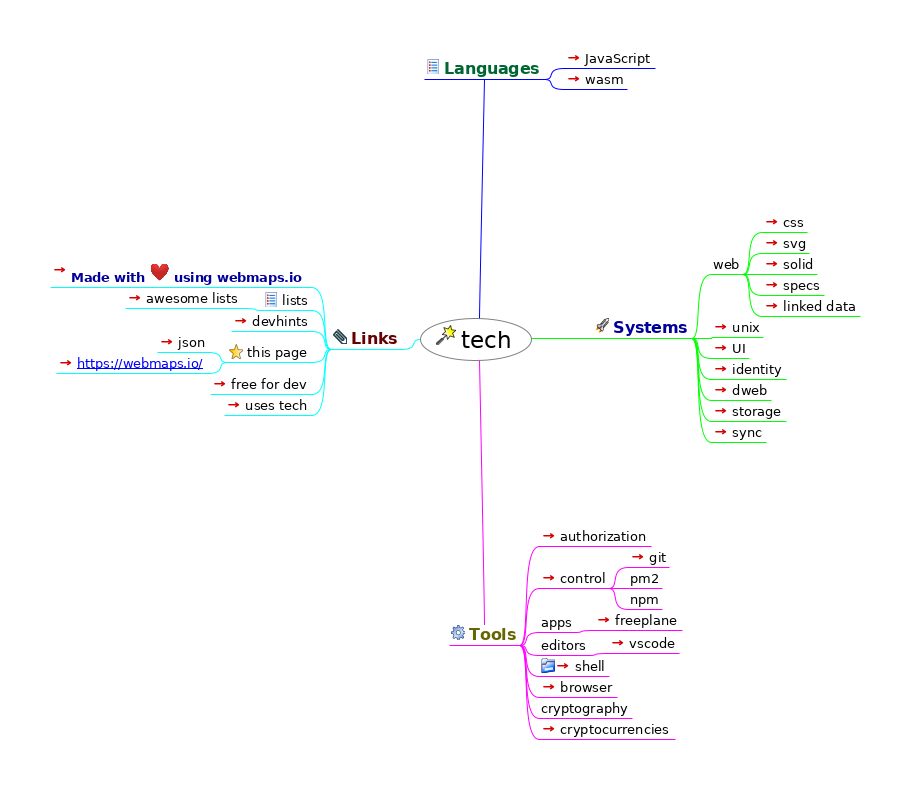
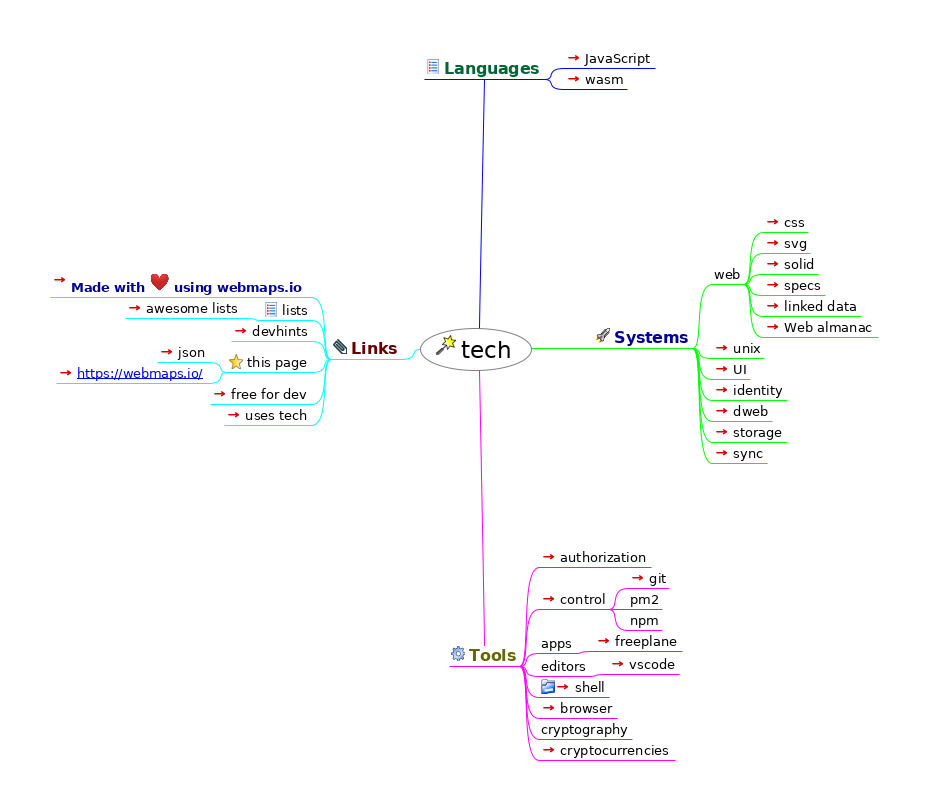
add web almanac

diff --git a/index.html b/index.html
@@ -23,52 +23,53 @@
                    };
                };
           
-          --></script></head><body><h1>tech</h1><div style="width:96%;  padding:2%;  margin-bottom:10px;  border: 0px;  text-align:center;  vertical-align:center;"><img src="index.html_files/image.png" style="margin-bottom:10px; &#9;border: 0px; &#9;text-align:center; &#9;vertical-align:center;" alt="Imagemap" usemap="#fm_imagemap" /></div><map name="fm_imagemap" id="fm_imagemap"><area shape="rect" href="#FMID_237352286FM" alt="tech" title="tech" coords="420,318,532,361" />
+          --></script></head><body><h1>tech</h1><div style="width:96%;  padding:2%;  margin-bottom:10px;  border: 0px;  text-align:center;  vertical-align:center;"><img src="index.html_files/image.png" style="margin-bottom:10px; &#9;border: 0px; &#9;text-align:center; &#9;vertical-align:center;" alt="Imagemap" usemap="#fm_imagemap" /></div><map name="fm_imagemap" id="fm_imagemap"><area shape="rect" href="#FMID_237352286FM" alt="tech" title="tech" coords="420,328,532,371" />
 <area shape="rect" href="#FMID_176155545FM" alt="Languages" title="Languages" coords="424,59,545,79" />
 <area shape="rect" href="../JavaScript/index.html" alt="JavaScript" title="JavaScript" coords="564,50,655,68" />
 <area shape="rect" href="languages/wasm/index.html" alt="wasm" title="wasm" coords="564,71,627,89" />
-<area shape="rect" href="#FMID_527312312FM" alt="Systems" title="Systems" coords="593,318,692,338" />
-<area shape="rect" href="#FMID_532002583FM" alt="web" title="web" coords="711,256,743,274" />
-<area shape="rect" href="css.html" alt="css" title="css" coords="762,214,807,232" />
-<area shape="rect" href="https://www.w3schools.com/graphics/svg_reference.asp" alt="svg" title="svg" coords="762,235,809,253" />
-<area shape="rect" href="../solid/index.html" alt="solid" title="solid" coords="762,256,817,274" />
-<area shape="rect" href="../specs/index.html" alt="specs" title="specs" coords="762,277,824,295" />
-<area shape="rect" href="../linkeddata/index.html" alt="linked data" title="linked data" coords="762,298,860,316" />
-<area shape="rect" href="unix/index.html" alt="unix" title="unix" coords="711,319,763,337" />
-<area shape="rect" href="UI/index.html" alt="UI" title="UI" coords="711,340,749,358" />
-<area shape="rect" href="identity/index.html" alt="identity" title="identity" coords="711,361,786,379" />
-<area shape="rect" href="dweb/index.html" alt="dweb" title="dweb" coords="711,382,771,400" />
-<area shape="rect" href="storage/index.html" alt="storage" title="storage" coords="711,403,786,421" />
-<area shape="rect" href="sync/index.html" alt="sync" title="sync" coords="711,424,766,442" />
-<area shape="rect" href="#FMID_1810859973FM" alt="Tools" title="Tools" coords="449,625,520,645" />
-<area shape="rect" href="authorization/index.html" alt="authorization" title="authorization" coords="539,528,651,546" />
-<area shape="rect" href="control/index.html" alt="control" title="control" coords="539,570,609,588" />
-<area shape="rect" href="control/git.html" alt="git" title="git" coords="628,549,669,567" />
-<area shape="rect" href="#FMID_901084502FM" alt="pm2" title="pm2" coords="628,570,662,588" />
-<area shape="rect" href="#FMID_677687213FM" alt="npm" title="npm" coords="628,591,662,609" />
-<area shape="rect" href="#FMID_453742222FM" alt="apps" title="apps" coords="539,614,575,632" />
-<area shape="rect" href="freeplane.html" alt="freeplane" title="freeplane" coords="594,612,682,630" />
-<area shape="rect" href="#FMID_1019017499FM" alt="editors" title="editors" coords="539,637,589,655" />
-<area shape="rect" href="https://code.visualstudio.com/" alt="vscode" title="vscode" coords="608,635,679,653" />
-<area shape="rect" href="shell/index.html" alt="shell" title="shell" coords="539,658,609,676" />
-<area shape="rect" href="browser/index.html" alt="browser" title="browser" coords="539,679,617,697" />
-<area shape="rect" href="#FMID_697718730FM" alt="cryptography" title="cryptography" coords="539,700,632,718" />
-<area shape="rect" href="cryptocurrencies/index.html" alt="cryptocurrencies" title="cryptocurrencies" coords="539,721,675,739" />
-<area shape="rect" href="#FMID_777477932FM" alt="Links" title="Links" coords="331,329,401,349" />
-<area shape="rect" href="https://webmaps.io/" alt="Made with  using webmaps.io" title="Made with  using webmaps.io" coords="50,262,312,287" />
-<area shape="rect" href="#FMID_21985093FM" alt="lists" title="lists" coords="262,292,312,310" />
-<area shape="rect" href="https://getawesomeness.herokuapp.com/get/js" alt="awesome lists" title="awesome lists" coords="125,290,243,308" />
-<area shape="rect" href="https://devhints.io/" alt="devhints" title="devhints" coords="231,313,312,331" />
-<area shape="rect" href="#FMID_117142409FM" alt="this page" title="this page" coords="227,344,312,362" />
-<area shape="rect" href="index.json" alt="json" title="json" coords="157,334,208,352" />
-<area shape="rect" href="https://webmaps.io/" alt="https://webmaps.io/" title="https://webmaps.io/" coords="56,355,208,373" />
-<area shape="rect" href="https://free-for.dev/#/" alt="free for dev" title="free for dev" coords="210,376,312,394" />
-<area shape="rect" href="https://uses.tech/" alt="uses tech" title="uses tech" coords="224,397,312,415" />
+<area shape="rect" href="#FMID_527312312FM" alt="Systems" title="Systems" coords="593,328,693,348" />
+<area shape="rect" href="#FMID_532002583FM" alt="web" title="web" coords="712,266,744,284" />
+<area shape="rect" href="css.html" alt="css" title="css" coords="763,214,808,232" />
+<area shape="rect" href="https://www.w3schools.com/graphics/svg_reference.asp" alt="svg" title="svg" coords="763,235,810,253" />
+<area shape="rect" href="../solid/index.html" alt="solid" title="solid" coords="763,256,818,274" />
+<area shape="rect" href="../specs/index.html" alt="specs" title="specs" coords="763,277,825,295" />
+<area shape="rect" href="../linkeddata/index.html" alt="linked data" title="linked data" coords="763,298,861,316" />
+<area shape="rect" href="https://almanac.httparchive.org/en/2019/table-of-contents" alt="Web almanac" title="Web almanac" coords="763,319,878,337" />
+<area shape="rect" href="unix/index.html" alt="unix" title="unix" coords="712,340,764,358" />
+<area shape="rect" href="UI/index.html" alt="UI" title="UI" coords="712,361,750,379" />
+<area shape="rect" href="identity/index.html" alt="identity" title="identity" coords="712,382,787,400" />
+<area shape="rect" href="dweb/index.html" alt="dweb" title="dweb" coords="712,403,772,421" />
+<area shape="rect" href="storage/index.html" alt="storage" title="storage" coords="712,424,787,442" />
+<area shape="rect" href="sync/index.html" alt="sync" title="sync" coords="712,445,767,463" />
+<area shape="rect" href="#FMID_1810859973FM" alt="Tools" title="Tools" coords="449,646,520,666" />
+<area shape="rect" href="authorization/index.html" alt="authorization" title="authorization" coords="539,549,651,567" />
+<area shape="rect" href="control/index.html" alt="control" title="control" coords="539,591,609,609" />
+<area shape="rect" href="control/git.html" alt="git" title="git" coords="628,570,669,588" />
+<area shape="rect" href="#FMID_901084502FM" alt="pm2" title="pm2" coords="628,591,662,609" />
+<area shape="rect" href="#FMID_677687213FM" alt="npm" title="npm" coords="628,612,662,630" />
+<area shape="rect" href="#FMID_453742222FM" alt="apps" title="apps" coords="539,635,575,653" />
+<area shape="rect" href="freeplane.html" alt="freeplane" title="freeplane" coords="594,633,682,651" />
+<area shape="rect" href="#FMID_1019017499FM" alt="editors" title="editors" coords="539,658,589,676" />
+<area shape="rect" href="https://code.visualstudio.com/" alt="vscode" title="vscode" coords="608,656,679,674" />
+<area shape="rect" href="shell/index.html" alt="shell" title="shell" coords="539,679,609,697" />
+<area shape="rect" href="browser/index.html" alt="browser" title="browser" coords="539,700,617,718" />
+<area shape="rect" href="#FMID_697718730FM" alt="cryptography" title="cryptography" coords="539,721,632,739" />
+<area shape="rect" href="cryptocurrencies/index.html" alt="cryptocurrencies" title="cryptocurrencies" coords="539,742,675,760" />
+<area shape="rect" href="#FMID_777477932FM" alt="Links" title="Links" coords="331,339,401,359" />
+<area shape="rect" href="https://webmaps.io/" alt="Made with  using webmaps.io" title="Made with  using webmaps.io" coords="50,272,312,297" />
+<area shape="rect" href="#FMID_21985093FM" alt="lists" title="lists" coords="262,302,312,320" />
+<area shape="rect" href="https://getawesomeness.herokuapp.com/get/js" alt="awesome lists" title="awesome lists" coords="125,300,243,318" />
+<area shape="rect" href="https://devhints.io/" alt="devhints" title="devhints" coords="231,323,312,341" />
+<area shape="rect" href="#FMID_117142409FM" alt="this page" title="this page" coords="227,354,312,372" />
+<area shape="rect" href="index.json" alt="json" title="json" coords="157,344,208,362" />
+<area shape="rect" href="https://webmaps.io/" alt="https://webmaps.io/" title="https://webmaps.io/" coords="56,365,208,383" />
+<area shape="rect" href="https://free-for.dev/#/" alt="free for dev" title="free for dev" coords="210,386,312,404" />
+<area shape="rect" href="https://uses.tech/" alt="uses tech" title="uses tech" coords="224,407,312,425" />
 </map>
 
-<div class="node"><img src="index.html_files/hide.png" class="hideshow" alt="hide" onClick="toggle(&quot;N65543&quot;)" id="imgN65543" /><img src="index.html_files/icons/wizard.svg" alt="wizard" /> <a id="FMID_237352286FM" /><div class="nodecontent" style="color:#000000;font-size:150%;">tech</div><div class="content" id="N65543"><div class="node"><img src="index.html_files/hide.png" class="hideshow" alt="hide" onClick="toggle(&quot;N66444&quot;)" id="imgN66444" /><img src="index.html_files/icons/list.svg" alt="list" /> <a id="FMID_176155545FM" /><div class="nodecontent" style="color:#006633;font-size:100%;font-weight:bold;">Languages</div><div class="content" id="N66444"><div class="node"><img src="index.html_files/leaf.png" class="hideshow" alt="leaf" /><a id="FMID_546595456FM" /><div class="nodecontent" style="color:#000000;font-size:83%;"><a href="../JavaScript/index.html">JavaScript</a> <a href="../JavaScript/index.html"><img src="index.html_files/ilink.png" alt="User Link" style="border-width:0" /></a></div></div><div class="node"><img src="index.html_files/leaf.png" class="hideshow" alt="leaf" /><a id="FMID_1992588014FM" /><div class="nodecontent" style="color:#000000;font-size:83%;"><a href="languages/wasm/index.html">wasm</a> <a href="languages/wasm/index.html"><img src="index.html_files/ilink.png" alt="User Link" style="border-width:0" /></a></div></div></div></div><div class="node"><img src="index.html_files/hide.png" class="hideshow" alt="hide" onClick="toggle(&quot;N66562&quot;)" id="imgN66562" /><img src="index.html_files/icons/launch.svg" alt="launch" /> <a id="FMID_527312312FM" /><div class="nodecontent" style="color:#000099;font-size:100%;font-weight:bold;">Systems</div><div class="content" id="N66562"><div class="node"><img src="index.html_files/hide.png" class="hideshow" alt="hide" onClick="toggle(&quot;N66605&quot;)" id="imgN66605" /><a id="FMID_532002583FM" /><div class="nodecontent" style="color:#000000;font-size:83%;">web</div><div class="content" id="N66605"><div class="node"><img src="index.html_files/leaf.png" class="hideshow" alt="leaf" /><a id="FMID_1846113849FM" /><div class="nodecontent" style="color:#000000;font-size:83%;"><a href="css.html">css</a> <a href="css.html"><img src="index.html_files/ilink.png" alt="User Link" style="border-width:0" /></a></div></div><div class="node"><img src="index.html_files/leaf.png" class="hideshow" alt="leaf" /><a id="FMID_428457042FM" /><div class="nodecontent" style="color:#000000;font-size:83%;"><a href="https://www.w3schools.com/graphics/svg_reference.asp">svg</a> <a href="https://www.w3schools.com/graphics/svg_reference.asp"><img src="index.html_files/ilink.png" alt="User Link" style="border-width:0" /></a></div></div><div class="node"><img src="index.html_files/leaf.png" class="hideshow" alt="leaf" /><a id="FMID_1070141955FM" /><div class="nodecontent" style="color:#000000;font-size:83%;"><a href="../solid/index.html">solid</a> <a href="../solid/index.html"><img src="index.html_files/ilink.png" alt="User Link" style="border-width:0" /></a></div></div><div class="node"><img src="index.html_files/leaf.png" class="hideshow" alt="leaf" /><a id="FMID_1682894723FM" /><div class="nodecontent" style="color:#000000;font-size:83%;"><a href="../specs/index.html">specs</a> <a href="../specs/index.html"><img src="index.html_files/ilink.png" alt="User Link" style="border-width:0" /></a></div></div><div class="node"><img src="index.html_files/leaf.png" class="hideshow" alt="leaf" /><a id="FMID_1972132930FM" /><div class="nodecontent" style="color:#000000;font-size:83%;"><a href="../linkeddata/index.html">linked data</a> <a href="../linkeddata/index.html"><img src="index.html_files/ilink.png" alt="User Link" style="border-width:0" /></a></div></div></div></div><div class="node"><img src="index.html_files/leaf.png" class="hideshow" alt="leaf" /><a id="FMID_7338816FM" /><div class="nodecontent" style="color:#000000;font-size:83%;"><a href="unix/index.html">unix</a> <a href="unix/index.html"><img src="index.html_files/ilink.png" alt="User Link" style="border-width:0" /></a></div></div><div class="node"><img src="index.html_files/leaf.png" class="hideshow" alt="leaf" /><a id="FMID_1601511624FM" /><div class="nodecontent" style="color:#000000;font-size:83%;"><a href="UI/index.html">UI</a> <a href="UI/index.html"><img src="index.html_files/ilink.png" alt="User Link" style="border-width:0" /></a></div></div><div class="node"><img src="index.html_files/leaf.png" class="hideshow" alt="leaf" /><a id="FMID_879802849FM" /><div class="nodecontent" style="color:#000000;font-size:83%;"><a href="identity/index.html">identity</a> <a href="identity/index.html"><img src="index.html_files/ilink.png" alt="User Link" style="border-width:0" /></a></div></div><div class="node"><img src="index.html_files/leaf.png" class="hideshow" alt="leaf" /><a id="FMID_1672732454FM" /><div class="nodecontent" style="color:#000000;font-size:83%;"><a href="dweb/index.html">dweb</a> <a href="dweb/index.html"><img src="index.html_files/ilink.png" alt="User Link" style="border-width:0" /></a></div></div><div class="node"><img src="index.html_files/leaf.png" class="hideshow" alt="leaf" /><a id="FMID_1360108173FM" /><div class="nodecontent" style="color:#000000;font-size:83%;"><a href="storage/index.html">storage</a> <a href="storage/index.html"><img src="index.html_files/ilink.png" alt="User Link" style="border-width:0" /></a></div></div><div class="node"><img src="index.html_files/leaf.png" class="hideshow" alt="leaf" /><a id="FMID_989569041FM" /><div class="nodecontent" style="color:#000000;font-size:83%;"><a href="sync/index.html">sync</a> <a href="sync/index.html"><img src="index.html_files/ilink.png" alt="User Link" style="border-width:0" /></a></div></div></div></div><div class="node"><img src="index.html_files/hide.png" class="hideshow" alt="hide" onClick="toggle(&quot;N67049&quot;)" id="imgN67049" /><img src="index.html_files/icons/executable.svg" alt="executable" /> <a id="FMID_1810859973FM" /><div class="nodecontent" style="color:#666600;font-size:100%;font-weight:bold;">Tools</div><div class="content" id="N67049"><div class="node"><img src="index.html_files/leaf.png" class="hideshow" alt="leaf" /><a id="FMID_1568925180FM" /><div class="nodecontent" style="color:#000000;font-size:83%;"><a href="authorization/index.html">authorization</a> <a href="authorization/index.html"><img src="index.html_files/ilink.png" alt="User Link" style="border-width:0" /></a></div></div><div class="node"><img src="index.html_files/hide.png" class="hideshow" alt="hide" onClick="toggle(&quot;N67129&quot;)" id="imgN67129" /><a id="FMID_1041005677FM" /><div class="nodecontent" style="color:#000000;font-size:83%;"><a href="control/index.html">control</a> <a href="control/index.html"><img src="index.html_files/ilink.png" alt="User Link" style="border-width:0" /></a></div><div class="content" id="N67129"><div class="node"><img src="index.html_files/leaf.png" class="hideshow" alt="leaf" /><a id="FMID_1536156446FM" /><div class="nodecontent" style="color:#000000;font-size:83%;"><a href="control/git.html">git</a> <a href="control/git.html"><img src="index.html_files/ilink.png" alt="User Link" style="border-width:0" /></a></div></div><div class="node"><img src="index.html_files/leaf.png" class="hideshow" alt="leaf" /><a id="FMID_901084502FM" /><div class="nodecontent" style="color:#000000;font-size:83%;">pm2</div></div><div class="node"><img src="index.html_files/leaf.png" class="hideshow" alt="leaf" /><a id="FMID_677687213FM" /><div class="nodecontent" style="color:#000000;font-size:83%;">npm</div></div></div></div><div class="node"><img src="index.html_files/hide.png" class="hideshow" alt="hide" onClick="toggle(&quot;N67275&quot;)" id="imgN67275" /><a id="FMID_453742222FM" /><div class="nodecontent" style="color:#000000;font-size:83%;">apps</div><div class="content" id="N67275"><div class="node"><img src="index.html_files/leaf.png" class="hideshow" alt="leaf" /><a id="FMID_756649779FM" /><div class="nodecontent" style="color:#000000;font-size:83%;"><a href="freeplane.html">freeplane</a> <a href="freeplane.html"><img src="index.html_files/ilink.png" alt="User Link" style="border-width:0" /></a></div></div></div></div><div class="node"><img src="index.html_files/hide.png" class="hideshow" alt="hide" onClick="toggle(&quot;N67348&quot;)" id="imgN67348" /><a id="FMID_1019017499FM" /><div class="nodecontent" style="color:#000000;font-size:83%;">editors</div><div class="content" id="N67348"><div class="node"><img src="index.html_files/leaf.png" class="hideshow" alt="leaf" /><a id="FMID_847676993FM" /><div class="nodecontent" style="color:#000000;font-size:83%;"><a href="https://code.visualstudio.com/">vscode</a> <a href="https://code.visualstudio.com/"><img src="index.html_files/ilink.png" alt="User Link" style="border-width:0" /></a></div></div></div></div><div class="node"><img src="index.html_files/leaf.png" class="hideshow" alt="leaf" /><img src="index.html_files/icons/folder.svg" alt="folder" /> <a id="FMID_1968717210FM" /><div class="nodecontent" style="color:#000000;font-size:83%;"><a href="shell/index.html">shell</a> <a href="shell/index.html"><img src="index.html_files/ilink.png" alt="User Link" style="border-width:0" /></a></div></div><div class="node"><img src="index.html_files/leaf.png" class="hideshow" alt="leaf" /><a id="FMID_220365950FM" /><div class="nodecontent" style="color:#000000;font-size:83%;"><a href="browser/index.html">browser</a> <a href="browser/index.html"><img src="index.html_files/ilink.png" alt="User Link" style="border-width:0" /></a></div></div><div class="node"><img src="index.html_files/leaf.png" class="hideshow" alt="leaf" /><a id="FMID_697718730FM" /><div class="nodecontent" style="color:#000000;font-size:83%;">cryptography</div></div><div class="node"><img src="index.html_files/leaf.png" class="hideshow" alt="leaf" /><a id="FMID_653198444FM" /><div class="nodecontent" style="color:#000000;font-size:83%;"><a href="cryptocurrencies/index.html">cryptocurrencies</a> <a href="cryptocurrencies/index.html"><img src="index.html_files/ilink.png" alt="User Link" style="border-width:0" /></a></div></div></div></div><div class="node"><img src="index.html_files/hide.png" class="hideshow" alt="hide" onClick="toggle(&quot;N67574&quot;)" id="imgN67574" /><img src="index.html_files/icons/attach.svg" alt="attach" /> <a id="FMID_777477932FM" /><div class="nodecontent" style="color:#660000;font-size:100%;font-weight:bold;">Links</div><div class="content" id="N67574"><div class="node"><img src="index.html_files/leaf.png" class="hideshow" alt="leaf" /><a id="FMID_1974475433FM" /><div class="nodecontent" style="color:#000099;font-size:83%;font-weight:bold;"><a href="https://webmaps.io/">
+<div class="node"><img src="index.html_files/hide.png" class="hideshow" alt="hide" onClick="toggle(&quot;N65543&quot;)" id="imgN65543" /><img src="index.html_files/icons/wizard.svg" alt="wizard" /> <a id="FMID_237352286FM" /><div class="nodecontent" style="color:#000000;font-size:150%;">tech</div><div class="content" id="N65543"><div class="node"><img src="index.html_files/hide.png" class="hideshow" alt="hide" onClick="toggle(&quot;N66444&quot;)" id="imgN66444" /><img src="index.html_files/icons/list.svg" alt="list" /> <a id="FMID_176155545FM" /><div class="nodecontent" style="color:#006633;font-size:100%;font-weight:bold;">Languages</div><div class="content" id="N66444"><div class="node"><img src="index.html_files/leaf.png" class="hideshow" alt="leaf" /><a id="FMID_546595456FM" /><div class="nodecontent" style="color:#000000;font-size:83%;"><a href="../JavaScript/index.html">JavaScript</a> <a href="../JavaScript/index.html"><img src="index.html_files/ilink.png" alt="User Link" style="border-width:0" /></a></div></div><div class="node"><img src="index.html_files/leaf.png" class="hideshow" alt="leaf" /><a id="FMID_1992588014FM" /><div class="nodecontent" style="color:#000000;font-size:83%;"><a href="languages/wasm/index.html">wasm</a> <a href="languages/wasm/index.html"><img src="index.html_files/ilink.png" alt="User Link" style="border-width:0" /></a></div></div></div></div><div class="node"><img src="index.html_files/hide.png" class="hideshow" alt="hide" onClick="toggle(&quot;N66562&quot;)" id="imgN66562" /><img src="index.html_files/icons/launch.svg" alt="launch" /> <a id="FMID_527312312FM" /><div class="nodecontent" style="color:#000099;font-size:100%;font-weight:bold;">Systems</div><div class="content" id="N66562"><div class="node"><img src="index.html_files/hide.png" class="hideshow" alt="hide" onClick="toggle(&quot;N66605&quot;)" id="imgN66605" /><a id="FMID_532002583FM" /><div class="nodecontent" style="color:#000000;font-size:83%;">web</div><div class="content" id="N66605"><div class="node"><img src="index.html_files/leaf.png" class="hideshow" alt="leaf" /><a id="FMID_1846113849FM" /><div class="nodecontent" style="color:#000000;font-size:83%;"><a href="css.html">css</a> <a href="css.html"><img src="index.html_files/ilink.png" alt="User Link" style="border-width:0" /></a></div></div><div class="node"><img src="index.html_files/leaf.png" class="hideshow" alt="leaf" /><a id="FMID_428457042FM" /><div class="nodecontent" style="color:#000000;font-size:83%;"><a href="https://www.w3schools.com/graphics/svg_reference.asp">svg</a> <a href="https://www.w3schools.com/graphics/svg_reference.asp"><img src="index.html_files/ilink.png" alt="User Link" style="border-width:0" /></a></div></div><div class="node"><img src="index.html_files/leaf.png" class="hideshow" alt="leaf" /><a id="FMID_1070141955FM" /><div class="nodecontent" style="color:#000000;font-size:83%;"><a href="../solid/index.html">solid</a> <a href="../solid/index.html"><img src="index.html_files/ilink.png" alt="User Link" style="border-width:0" /></a></div></div><div class="node"><img src="index.html_files/leaf.png" class="hideshow" alt="leaf" /><a id="FMID_1682894723FM" /><div class="nodecontent" style="color:#000000;font-size:83%;"><a href="../specs/index.html">specs</a> <a href="../specs/index.html"><img src="index.html_files/ilink.png" alt="User Link" style="border-width:0" /></a></div></div><div class="node"><img src="index.html_files/leaf.png" class="hideshow" alt="leaf" /><a id="FMID_1972132930FM" /><div class="nodecontent" style="color:#000000;font-size:83%;"><a href="../linkeddata/index.html">linked data</a> <a href="../linkeddata/index.html"><img src="index.html_files/ilink.png" alt="User Link" style="border-width:0" /></a></div></div><div class="node"><img src="index.html_files/leaf.png" class="hideshow" alt="leaf" /><a id="FMID_576483331FM" /><div class="nodecontent" style="color:#000000;font-size:83%;"><a href="https://almanac.httparchive.org/en/2019/table-of-contents">Web almanac</a> <a href="https://almanac.httparchive.org/en/2019/table-of-contents"><img src="index.html_files/ilink.png" alt="User Link" style="border-width:0" /></a></div></div></div></div><div class="node"><img src="index.html_files/leaf.png" class="hideshow" alt="leaf" /><a id="FMID_7338816FM" /><div class="nodecontent" style="color:#000000;font-size:83%;"><a href="unix/index.html">unix</a> <a href="unix/index.html"><img src="index.html_files/ilink.png" alt="User Link" style="border-width:0" /></a></div></div><div class="node"><img src="index.html_files/leaf.png" class="hideshow" alt="leaf" /><a id="FMID_1601511624FM" /><div class="nodecontent" style="color:#000000;font-size:83%;"><a href="UI/index.html">UI</a> <a href="UI/index.html"><img src="index.html_files/ilink.png" alt="User Link" style="border-width:0" /></a></div></div><div class="node"><img src="index.html_files/leaf.png" class="hideshow" alt="leaf" /><a id="FMID_879802849FM" /><div class="nodecontent" style="color:#000000;font-size:83%;"><a href="identity/index.html">identity</a> <a href="identity/index.html"><img src="index.html_files/ilink.png" alt="User Link" style="border-width:0" /></a></div></div><div class="node"><img src="index.html_files/leaf.png" class="hideshow" alt="leaf" /><a id="FMID_1672732454FM" /><div class="nodecontent" style="color:#000000;font-size:83%;"><a href="dweb/index.html">dweb</a> <a href="dweb/index.html"><img src="index.html_files/ilink.png" alt="User Link" style="border-width:0" /></a></div></div><div class="node"><img src="index.html_files/leaf.png" class="hideshow" alt="leaf" /><a id="FMID_1360108173FM" /><div class="nodecontent" style="color:#000000;font-size:83%;"><a href="storage/index.html">storage</a> <a href="storage/index.html"><img src="index.html_files/ilink.png" alt="User Link" style="border-width:0" /></a></div></div><div class="node"><img src="index.html_files/leaf.png" class="hideshow" alt="leaf" /><a id="FMID_989569041FM" /><div class="nodecontent" style="color:#000000;font-size:83%;"><a href="sync/index.html">sync</a> <a href="sync/index.html"><img src="index.html_files/ilink.png" alt="User Link" style="border-width:0" /></a></div></div></div></div><div class="node"><img src="index.html_files/hide.png" class="hideshow" alt="hide" onClick="toggle(&quot;N67086&quot;)" id="imgN67086" /><img src="index.html_files/icons/executable.svg" alt="executable" /> <a id="FMID_1810859973FM" /><div class="nodecontent" style="color:#666600;font-size:100%;font-weight:bold;">Tools</div><div class="content" id="N67086"><div class="node"><img src="index.html_files/leaf.png" class="hideshow" alt="leaf" /><a id="FMID_1568925180FM" /><div class="nodecontent" style="color:#000000;font-size:83%;"><a href="authorization/index.html">authorization</a> <a href="authorization/index.html"><img src="index.html_files/ilink.png" alt="User Link" style="border-width:0" /></a></div></div><div class="node"><img src="index.html_files/hide.png" class="hideshow" alt="hide" onClick="toggle(&quot;N67166&quot;)" id="imgN67166" /><a id="FMID_1041005677FM" /><div class="nodecontent" style="color:#000000;font-size:83%;"><a href="control/index.html">control</a> <a href="control/index.html"><img src="index.html_files/ilink.png" alt="User Link" style="border-width:0" /></a></div><div class="content" id="N67166"><div class="node"><img src="index.html_files/leaf.png" class="hideshow" alt="leaf" /><a id="FMID_1536156446FM" /><div class="nodecontent" style="color:#000000;font-size:83%;"><a href="control/git.html">git</a> <a href="control/git.html"><img src="index.html_files/ilink.png" alt="User Link" style="border-width:0" /></a></div></div><div class="node"><img src="index.html_files/leaf.png" class="hideshow" alt="leaf" /><a id="FMID_901084502FM" /><div class="nodecontent" style="color:#000000;font-size:83%;">pm2</div></div><div class="node"><img src="index.html_files/leaf.png" class="hideshow" alt="leaf" /><a id="FMID_677687213FM" /><div class="nodecontent" style="color:#000000;font-size:83%;">npm</div></div></div></div><div class="node"><img src="index.html_files/hide.png" class="hideshow" alt="hide" onClick="toggle(&quot;N67312&quot;)" id="imgN67312" /><a id="FMID_453742222FM" /><div class="nodecontent" style="color:#000000;font-size:83%;">apps</div><div class="content" id="N67312"><div class="node"><img src="index.html_files/leaf.png" class="hideshow" alt="leaf" /><a id="FMID_756649779FM" /><div class="nodecontent" style="color:#000000;font-size:83%;"><a href="freeplane.html">freeplane</a> <a href="freeplane.html"><img src="index.html_files/ilink.png" alt="User Link" style="border-width:0" /></a></div></div></div></div><div class="node"><img src="index.html_files/hide.png" class="hideshow" alt="hide" onClick="toggle(&quot;N67385&quot;)" id="imgN67385" /><a id="FMID_1019017499FM" /><div class="nodecontent" style="color:#000000;font-size:83%;">editors</div><div class="content" id="N67385"><div class="node"><img src="index.html_files/leaf.png" class="hideshow" alt="leaf" /><a id="FMID_847676993FM" /><div class="nodecontent" style="color:#000000;font-size:83%;"><a href="https://code.visualstudio.com/">vscode</a> <a href="https://code.visualstudio.com/"><img src="index.html_files/ilink.png" alt="User Link" style="border-width:0" /></a></div></div></div></div><div class="node"><img src="index.html_files/leaf.png" class="hideshow" alt="leaf" /><img src="index.html_files/icons/folder.svg" alt="folder" /> <a id="FMID_1968717210FM" /><div class="nodecontent" style="color:#000000;font-size:83%;"><a href="shell/index.html">shell</a> <a href="shell/index.html"><img src="index.html_files/ilink.png" alt="User Link" style="border-width:0" /></a></div></div><div class="node"><img src="index.html_files/leaf.png" class="hideshow" alt="leaf" /><a id="FMID_220365950FM" /><div class="nodecontent" style="color:#000000;font-size:83%;"><a href="browser/index.html">browser</a> <a href="browser/index.html"><img src="index.html_files/ilink.png" alt="User Link" style="border-width:0" /></a></div></div><div class="node"><img src="index.html_files/leaf.png" class="hideshow" alt="leaf" /><a id="FMID_697718730FM" /><div class="nodecontent" style="color:#000000;font-size:83%;">cryptography</div></div><div class="node"><img src="index.html_files/leaf.png" class="hideshow" alt="leaf" /><a id="FMID_653198444FM" /><div class="nodecontent" style="color:#000000;font-size:83%;"><a href="cryptocurrencies/index.html">cryptocurrencies</a> <a href="cryptocurrencies/index.html"><img src="index.html_files/ilink.png" alt="User Link" style="border-width:0" /></a></div></div></div></div><div class="node"><img src="index.html_files/hide.png" class="hideshow" alt="hide" onClick="toggle(&quot;N67611&quot;)" id="imgN67611" /><img src="index.html_files/icons/attach.svg" alt="attach" /> <a id="FMID_777477932FM" /><div class="nodecontent" style="color:#660000;font-size:100%;font-weight:bold;">Links</div><div class="content" id="N67611"><div class="node"><img src="index.html_files/leaf.png" class="hideshow" alt="leaf" /><a id="FMID_1974475433FM" /><div class="nodecontent" style="color:#000099;font-size:83%;font-weight:bold;"><a href="https://webmaps.io/">
     Made with <img class="emoji" alt="heart" height="20" width="20" src="https://github.githubassets.com/images/icons/emoji/unicode/2764.png" style="border-top-style: none; border-right-style: none; border-bottom-style: none; border-left-style: none" /> using webmaps.io
-  </a> <a href="https://webmaps.io/"><img src="index.html_files/ilink.png" alt="User Link" style="border-width:0" /></a></div></div><div class="node"><img src="index.html_files/hide.png" class="hideshow" alt="hide" onClick="toggle(&quot;N67672&quot;)" id="imgN67672" /><img src="index.html_files/icons/list.svg" alt="list" /> <a id="FMID_21985093FM" /><div class="nodecontent" style="color:#000000;font-size:83%;">lists</div><div class="content" id="N67672"><div class="node"><img src="index.html_files/leaf.png" class="hideshow" alt="leaf" /><a id="FMID_588856980FM" /><div class="nodecontent" style="color:#000000;font-size:83%;"><a href="https://getawesomeness.herokuapp.com/get/js">awesome lists</a> <a href="https://getawesomeness.herokuapp.com/get/js"><img src="index.html_files/ilink.png" alt="User Link" style="border-width:0" /></a></div></div></div></div><div class="node"><img src="index.html_files/leaf.png" class="hideshow" alt="leaf" /><a id="FMID_1033702527FM" /><div class="nodecontent" style="color:#000000;font-size:83%;"><a href="https://devhints.io/">devhints</a> <a href="https://devhints.io/"><img src="index.html_files/ilink.png" alt="User Link" style="border-width:0" /></a></div></div><div class="node"><img src="index.html_files/hide.png" class="hideshow" alt="hide" onClick="toggle(&quot;N67787&quot;)" id="imgN67787" /><img src="index.html_files/icons/bookmark.svg" alt="bookmark" /> <a id="FMID_117142409FM" /><div class="nodecontent" style="color:#000000;font-size:83%;">this page</div><div class="content" id="N67787"><div class="node"><img src="index.html_files/leaf.png" class="hideshow" alt="leaf" /><a id="FMID_485260235FM" /><div class="nodecontent" style="color:#000000;font-size:83%;"><a href="index.json">json</a> <a href="index.json"><img src="index.html_files/ilink.png" alt="User Link" style="border-width:0" /></a></div></div><div class="node"><img src="index.html_files/leaf.png" class="hideshow" alt="leaf" /><a id="FMID_1630439828FM" /><div class="nodecontent" style="color:#000000;font-size:83%;"><a href="https://webmaps.io/">
+  </a> <a href="https://webmaps.io/"><img src="index.html_files/ilink.png" alt="User Link" style="border-width:0" /></a></div></div><div class="node"><img src="index.html_files/hide.png" class="hideshow" alt="hide" onClick="toggle(&quot;N67709&quot;)" id="imgN67709" /><img src="index.html_files/icons/list.svg" alt="list" /> <a id="FMID_21985093FM" /><div class="nodecontent" style="color:#000000;font-size:83%;">lists</div><div class="content" id="N67709"><div class="node"><img src="index.html_files/leaf.png" class="hideshow" alt="leaf" /><a id="FMID_588856980FM" /><div class="nodecontent" style="color:#000000;font-size:83%;"><a href="https://getawesomeness.herokuapp.com/get/js">awesome lists</a> <a href="https://getawesomeness.herokuapp.com/get/js"><img src="index.html_files/ilink.png" alt="User Link" style="border-width:0" /></a></div></div></div></div><div class="node"><img src="index.html_files/leaf.png" class="hideshow" alt="leaf" /><a id="FMID_1033702527FM" /><div class="nodecontent" style="color:#000000;font-size:83%;"><a href="https://devhints.io/">devhints</a> <a href="https://devhints.io/"><img src="index.html_files/ilink.png" alt="User Link" style="border-width:0" /></a></div></div><div class="node"><img src="index.html_files/hide.png" class="hideshow" alt="hide" onClick="toggle(&quot;N67824&quot;)" id="imgN67824" /><img src="index.html_files/icons/bookmark.svg" alt="bookmark" /> <a id="FMID_117142409FM" /><div class="nodecontent" style="color:#000000;font-size:83%;">this page</div><div class="content" id="N67824"><div class="node"><img src="index.html_files/leaf.png" class="hideshow" alt="leaf" /><a id="FMID_485260235FM" /><div class="nodecontent" style="color:#000000;font-size:83%;"><a href="index.json">json</a> <a href="index.json"><img src="index.html_files/ilink.png" alt="User Link" style="border-width:0" /></a></div></div><div class="node"><img src="index.html_files/leaf.png" class="hideshow" alt="leaf" /><a id="FMID_1630439828FM" /><div class="nodecontent" style="color:#000000;font-size:83%;"><a href="https://webmaps.io/">
     <a http-equiv="content-type" content="text/html; charset=utf-8" href="https://webmaps.io/">https://webmaps.io/</a>
   </a> <a href="https://webmaps.io/"><img src="index.html_files/ilink.png" alt="User Link" style="border-width:0" /></a></div></div></div></div><div class="node"><img src="index.html_files/leaf.png" class="hideshow" alt="leaf" /><a id="FMID_1577207701FM" /><div class="nodecontent" style="color:#000000;font-size:83%;"><a href="https://free-for.dev/#/">free for dev</a> <a href="https://free-for.dev/#/"><img src="index.html_files/ilink.png" alt="User Link" style="border-width:0" /></a></div></div><div class="node"><img src="index.html_files/leaf.png" class="hideshow" alt="leaf" /><a id="FMID_1315399913FM" /><div class="nodecontent" style="color:#000000;font-size:83%;"><a href="https://uses.tech/">uses tech</a> <a href="https://uses.tech/"><img src="index.html_files/ilink.png" alt="User Link" style="border-width:0" /></a></div></div></div></div></div></div>
 </body></html>

diff --git a/index.mm b/index.mm
@@ -84,6 +84,7 @@
 <node TEXT="linked data" ID="ID_1972132930" CREATED="1578577934328" MODIFIED="1578926955881" LINK="../linkeddata/index.mm">
 <edge STYLE="bezier" COLOR="#00ff00" WIDTH="thin"/>
 </node>
+<node TEXT="Web almanac" ID="ID_576483331" CREATED="1579263452350" MODIFIED="1579263466353" LINK="https://almanac.httparchive.org/en/2019/table-of-contents"/>
 </node>
 <node TEXT="unix" ID="ID_7338816" CREATED="1574808370249" MODIFIED="1574808559592" LINK="unix/index.mm"/>
 <node TEXT="UI" ID="ID_1601511624" CREATED="1577512794222" MODIFIED="1577512794229" LINK="UI/index.mm">
